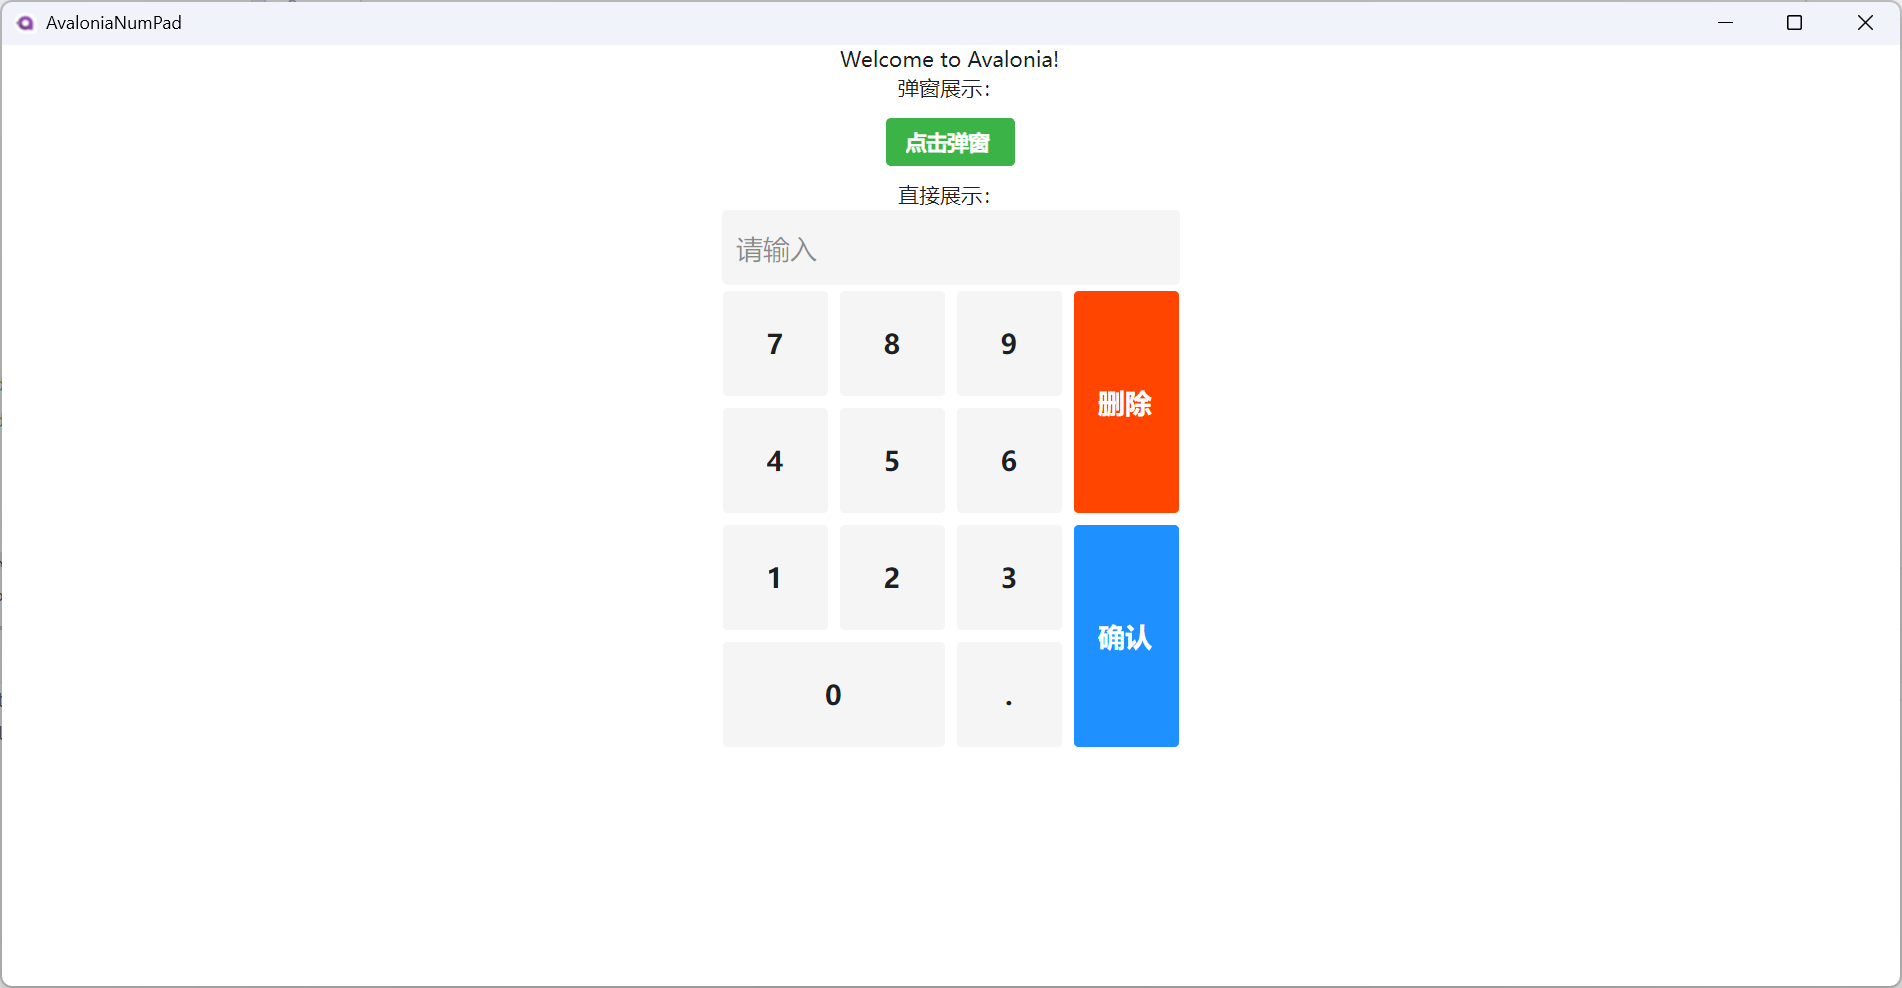
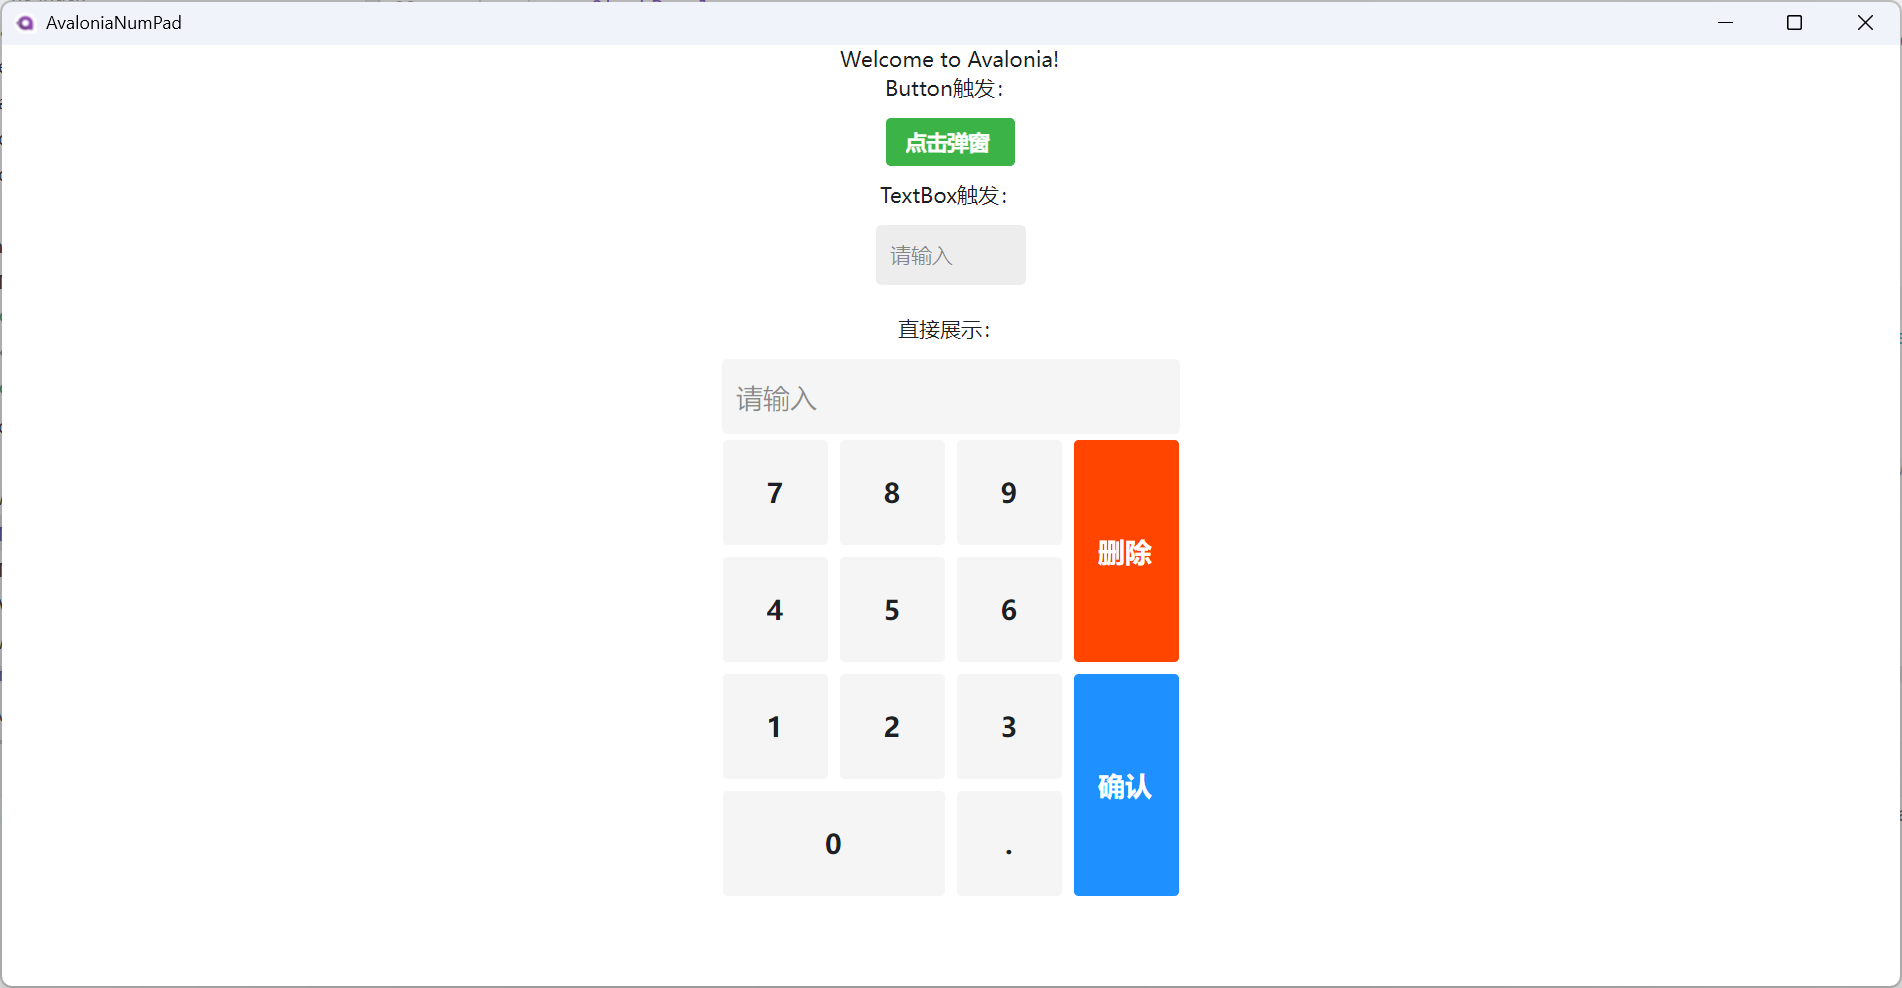
增加TextBox示例

diff --git a/ViewModels/MainWindowViewModel.cs b/ViewModels/MainWindowViewModel.cs
@@ -45,14 +45,14 @@ public partial class MainWindowViewModel : ViewModelBase
         };
         //获取对话框实例，正常应该从依赖注入中获取
         var numPadDialogViewModel = new NumPadDialogViewModel();
-        numPadDialogViewModel.Initialize("");
+        numPadDialogViewModel.Initialize(InputValue);
         await OverlayDialog.ShowModal<NumPadDialogView, NumPadDialogViewModel>(numPadDialogViewModel, options: options);
         var isEnter = numPadDialogViewModel.IsEnter; //是否确认关闭
-        var inputValue = numPadDialogViewModel.InputValue;
+        InputValue = numPadDialogViewModel.InputValue;
         //如果存在车牌简写，则直接请求
-        if (!string.IsNullOrWhiteSpace(inputValue) && isEnter)
+        if (!string.IsNullOrWhiteSpace(InputValue) && isEnter)
         {
-            ToastManager?.Show("输入的数字为：" + inputValue, NotificationType.Success);
+            ToastManager?.Show("输入的数字为：" + InputValue, NotificationType.Success);
         }
     }
 }

diff --git a/Views/MainWindow.axaml.cs b/Views/MainWindow.axaml.cs
@@ -1,5 +1,6 @@
 using System;
 using Avalonia.Controls;
+using Avalonia.Input;
 using Avalonia.Interactivity;
 using AvaloniaNumPad.ViewModels;
 using Ursa.Controls;
@@ -39,5 +40,16 @@ public partial class MainWindow : Window
     {
         _viewModel.ToastManager?.Uninstall();
         base.OnClosed(e);
+    }
+
+
+    /// <summary>
+    /// 焦点时触发
+    /// </summary>
+    /// <param name="sender"></param>
+    /// <param name="e"></param>
+    private void OnGotFocus(object? sender, GotFocusEventArgs e)
+    {
+        _viewModel.DialogCommand.Execute(null);
     }
 }
